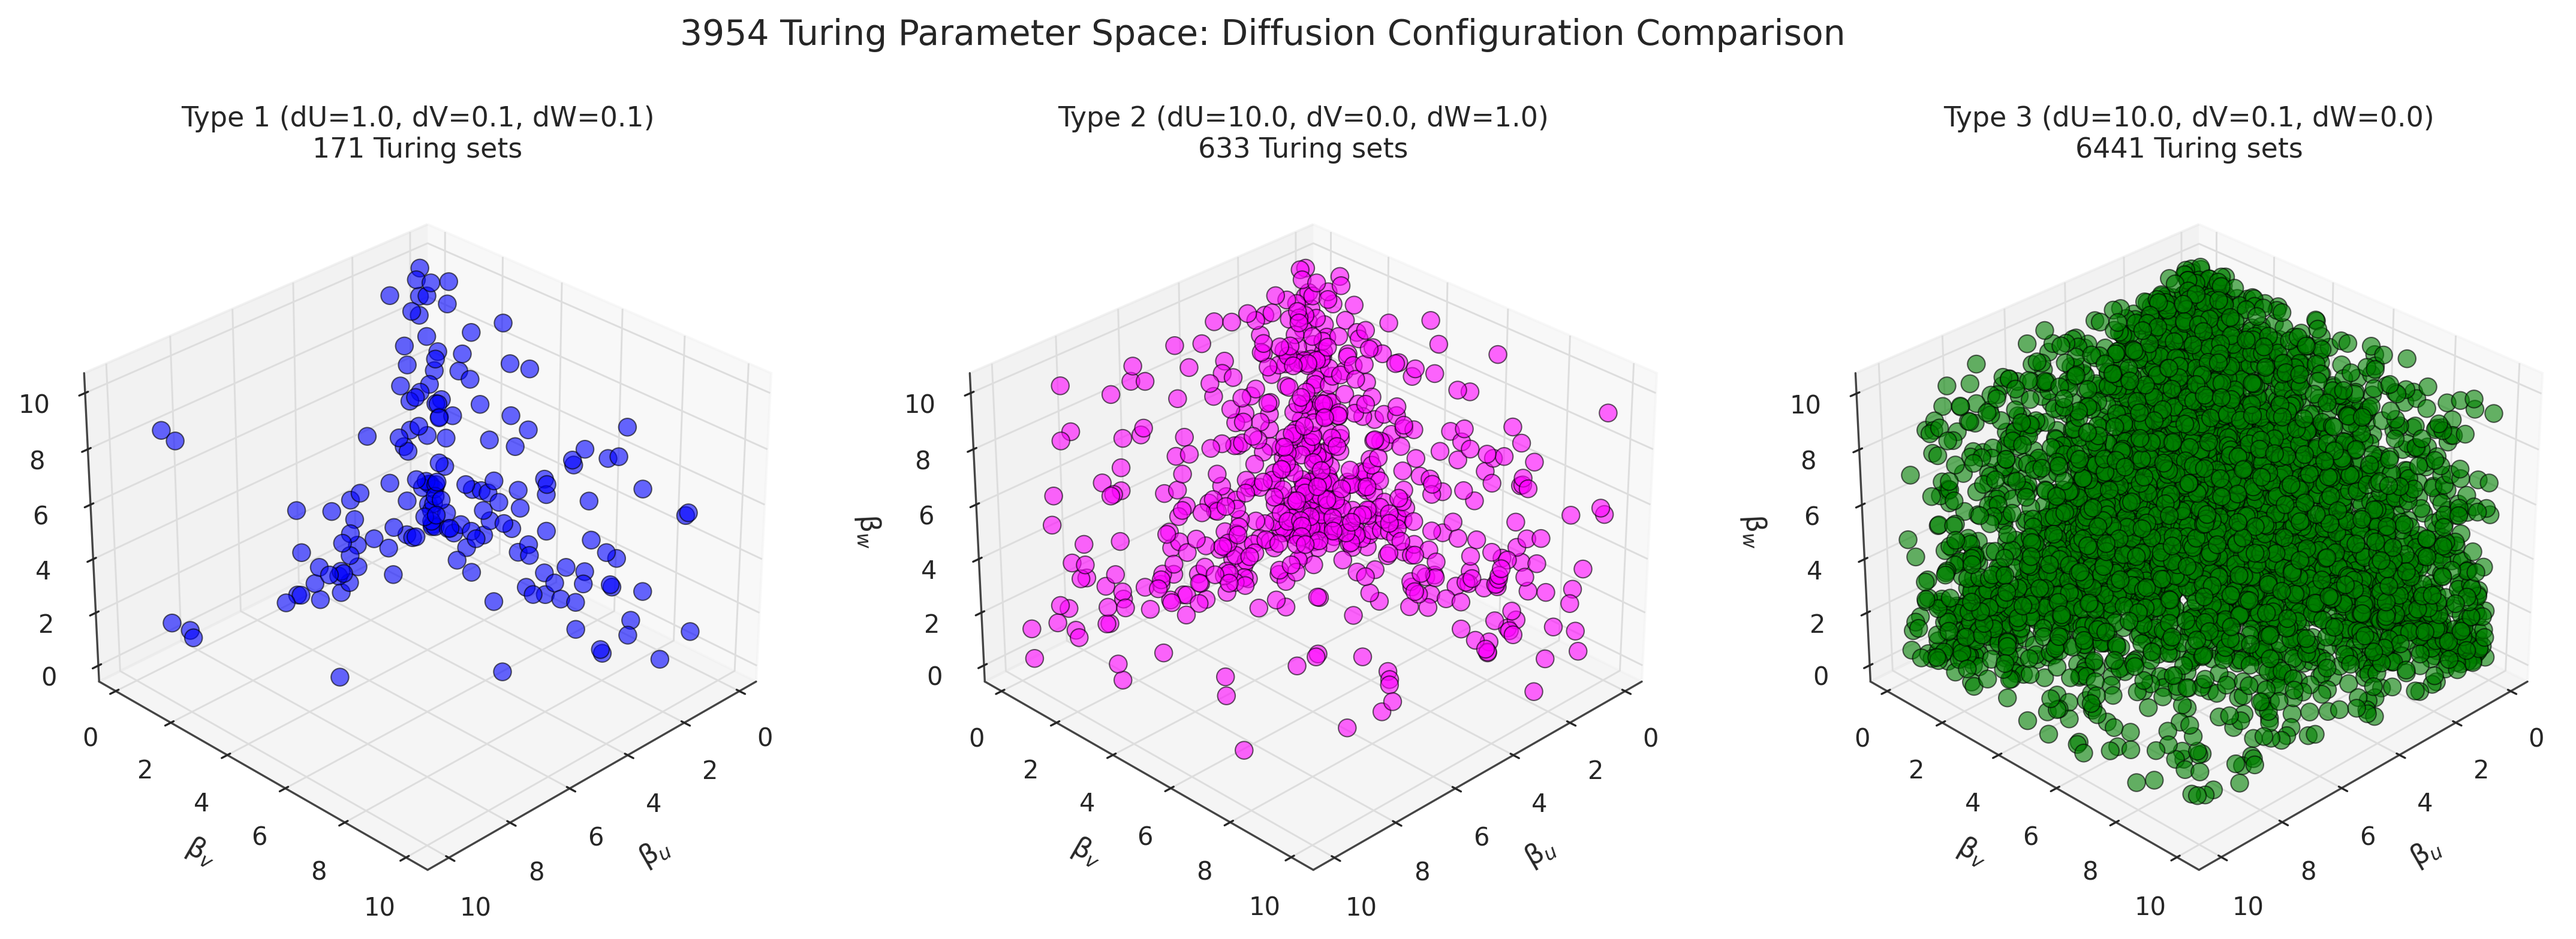
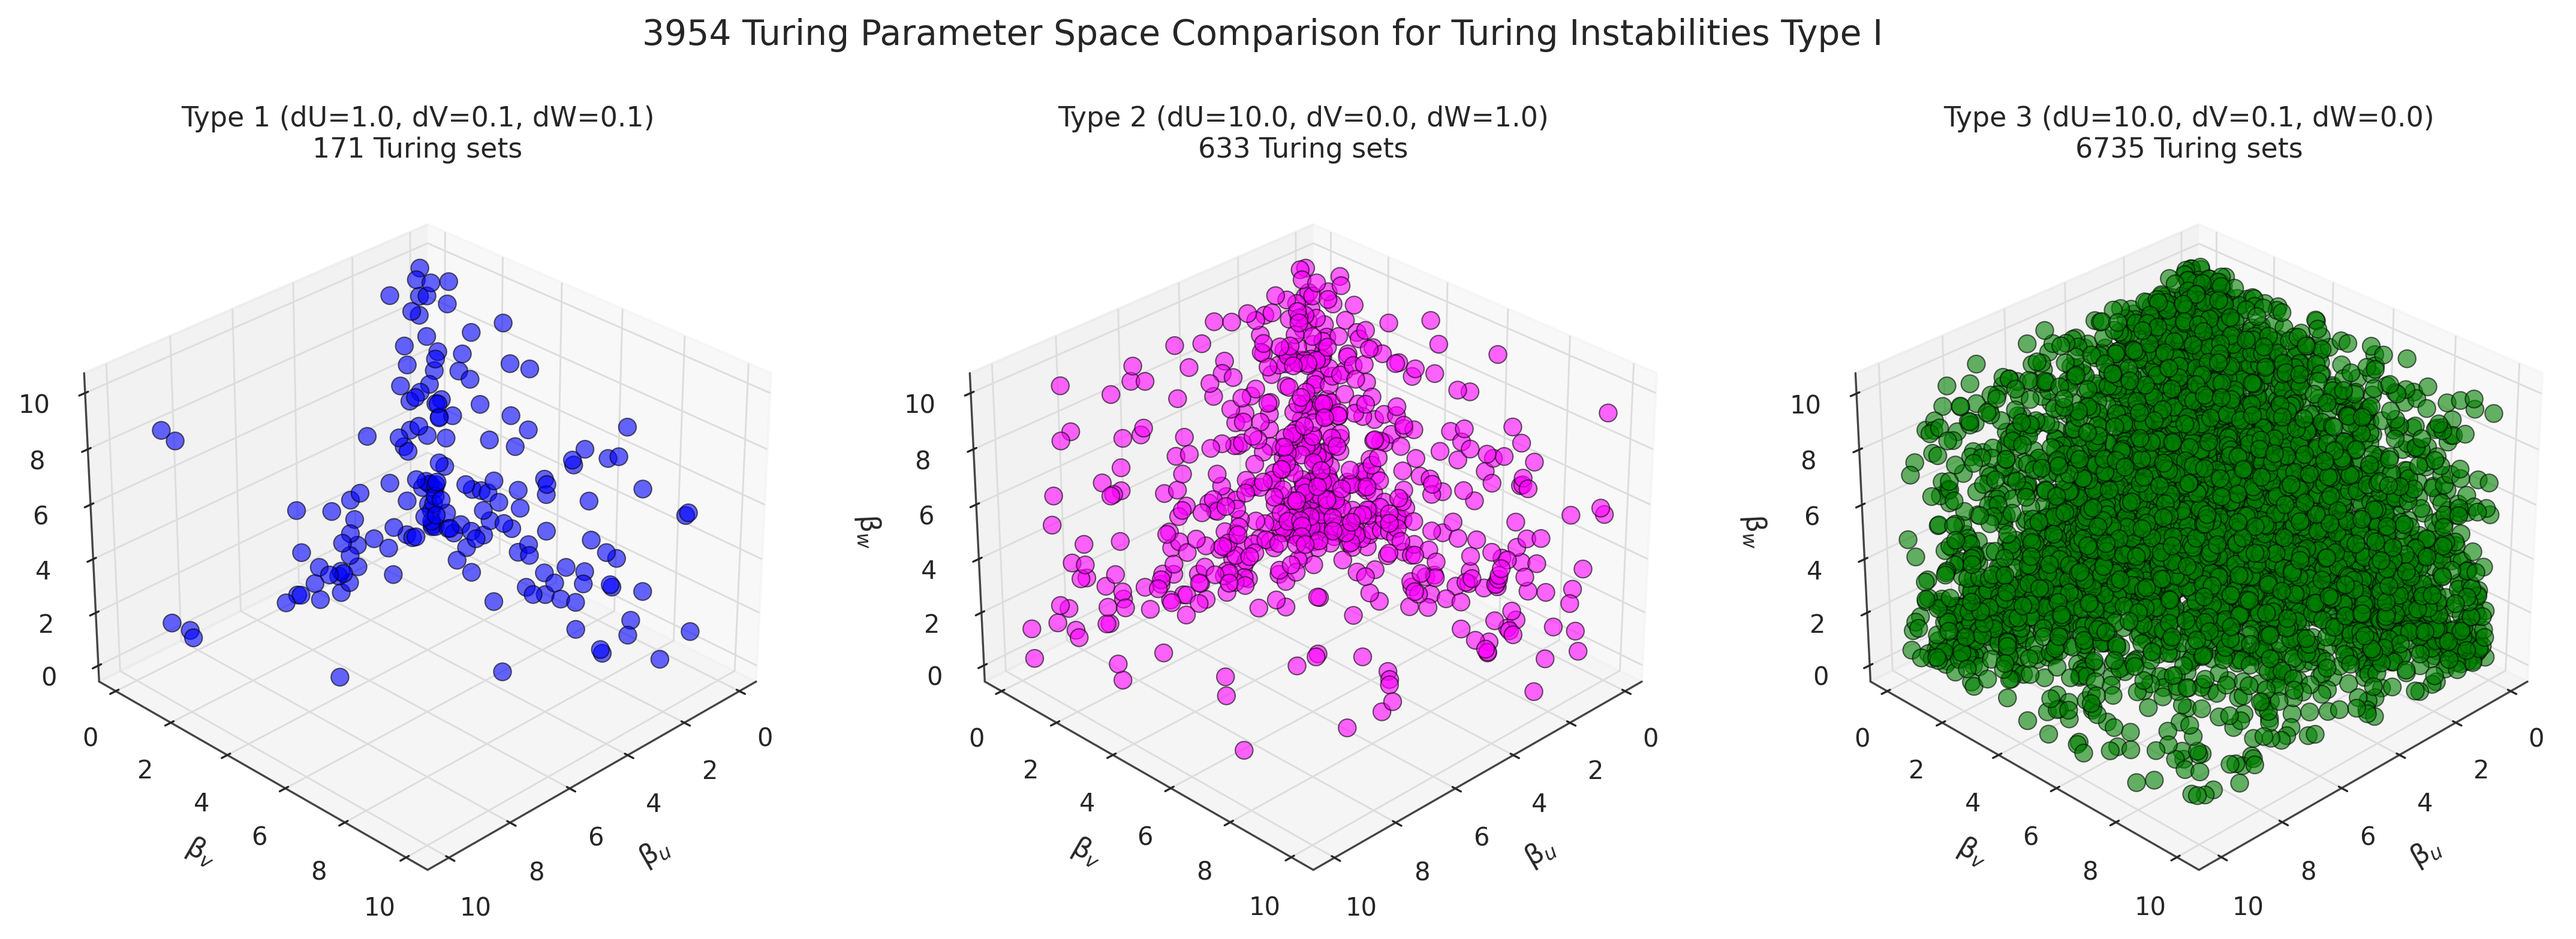
making plots prettier

diff --git a/TopologyRanking/results-compare-lhs.py b/TopologyRanking/results-compare-lhs.py
@@ -10,19 +10,20 @@ import seaborn as sns
 from mpl_toolkits.mplot3d import Axes3D
 from scipy.spatial import ConvexHull
 import matplotlib.patches as mpatches
+import matplotlib.lines as mlines
 
 # have to run this first: module load matplotlib/3.9.2-gfbf-2024a
 # have to run this first: module load SciPy-bundle/2024.05-gfbf-2024a
 # have to run this first: pip install seaborn --user
 
 CSVS = {
-    "#1754": "Topology1754/1754_FILTER_lhs_results_summary.csv",
+    "#1754": "Topology1754/1754_NEWTURINGCLASS_lhs_results_summary.csv",
     "#1823": "Topology1823/1823_PREFINAL_lhs_results_summary.csv",
     "#1838": "Topology1838/1838_PREFINAL_lhs_results_summary.csv",
-    "#3954": "Topology3954/3954_FILTER_lhs_results_summary.csv",
+    "#3954": "Topology3954/3954_NEWTURINGCLASS_lhs_results_summary.csv",
 }
 
-PARAMS_CSV = "Topology3954/3954_FILTER_lhs_results_parameters.csv"
+PARAMS_CSV = "Topology3954/3954_NEWTURINGCLASS_lhs_results_parameters.csv"
 
 # for both 3954 and 1754 i got rid of _CCD_Type1_Var1/2 bc the values were really high and kinda did not match the rest but later if it does match then we can put it back in and see if it changes the results
 
@@ -177,7 +178,7 @@ def fig1_combined_heatmaps(df):
         pivot_total,
         annot=True,
         fmt=".4f",
-        cmap="BuPu",
+        cmap="Blues",
         linewidths=0.5,
         linecolor="white",
         ax=ax1,
@@ -197,7 +198,7 @@ def fig1_combined_heatmaps(df):
         pivot_typeI,
         annot=True,
         fmt=".4f",
-        cmap="BuGn",
+        cmap="Purples",
         linewidths=0.5,
         linecolor="white",
         ax=ax2,
@@ -212,9 +213,8 @@ def fig1_combined_heatmaps(df):
         pad=10,
     )
 
-    # 6. Clean up layout and save
     fig.tight_layout()
-    save(fig, "new_combined_fig1_heatmaps")
+    save(fig, "thesis_combined_fig1_heatmaps")
 
 
 
@@ -224,76 +224,6 @@ def fig1_combined_heatmaps(df):
 
 
 ########## FIGURE 6: Stacked absolute bar – Type I vs II vs Hopf composition ##########
-
-def fig6_pattern_composition(df):
-    df = df.copy()
-
-    # UNCOMMENT to exclude Unequal diffusion configurations
-    #df = df[~df["config_name"].str.contains("Unequal")]
-
-    topos = ["#1754", "#1823", "#1838", "#3954"]
-    types = ["Type1", "Type2", "Type3"]
- 
-    # aggregate: max robustness and pattern counts per topology × turing type
-    grouped = df.groupby(["topology_id", "turing_type"]).agg(
-        rob    = ("rob_shaberi_total", "max"),
-        type_I = ("shaberi_type_I",   "sum"),
-        type_II= ("shaberi_type_II",  "sum"),
-        hopf   = ("shaberi_hopf",     "sum"),
-        turing_filter = ("filter_count", "sum"),
-    )
- 
-    fig, ax = plt.subplots(figsize=(10, 5))
- 
-    n_topos = len(topos)
-    width   = 0.16
-    gap     = 0.7
- 
-    for i, t in enumerate(types):
-        for j, topo in enumerate(topos):
-            try:
-                row = grouped.loc[(topo, t)]
-            except KeyError:
-                continue
- 
-            rob   = row["rob"]
-            #total = row["type_I"] + row["type_II"] + row["hopf"]
-            total = row["type_I"] + row["type_II"] + row["hopf"] + row["turing_filter"]
-            if total == 0 or rob == 0:
-                continue
- 
-            # split robustness proportionally by pattern type
-            f1 = row["type_I"]  / total * rob
-            f2 = row["type_II"] / total * rob
-            fh = row["hopf"]    / total * rob
-            ft = row["turing_filter"] / total * rob
- 
-            x = i * gap + (j - n_topos / 2 + 0.5) * width
- 
-            ax.bar(x, f1,      width=width, color=PATTERN_COLORS["Type I"],  edgecolor="white", linewidth=0.3)
-            ax.bar(x, f2,      width=width, color=PATTERN_COLORS["Type II"], edgecolor="white", linewidth=0.3, bottom=f1)
-            ax.bar(x, fh,      width=width, color=PATTERN_COLORS["Hopf"],    edgecolor="white", linewidth=0.3, bottom=f1+f2)
-            ax.bar(x, ft,      width=width, color=PATTERN_COLORS["Turing Filter"], edgecolor="white", linewidth=0.3, bottom=f1+f2+fh)
-
-            ax.text(x, -0.019, topo, ha="right", va="top", fontsize=7, rotation=45)
- 
-    ax.set_xticks([i * gap for i in range(len(types))])
-    ax.set_xticklabels(types, fontsize=11)
-    ax.set_ylabel("Robustness (rob_shaberi_total)", fontsize=11)
-    ax.set_title(
-        "Type I is mainly in Turing Type 1, Type II and Hopf drive Type 2/3 robustness",
-        fontsize=12, loc="left", pad=10,
-    )
-    ax.xaxis.grid(False)
- 
-    handles = [mpatches.Patch(color=c, label=l) for l, c in PATTERN_COLORS.items()]
-    #ax.legend(handles=handles, title="Pattern type", frameon=False, loc="upper center", bbox_to_anchor=(0.5, -0.18), ncol=3)
-    ax.legend(handles=handles, title="Pattern type", frameon=False, loc="center right", bbox_to_anchor=(1.15, 0.5), ncol=1)
-    
-    fig.tight_layout()
-    save(fig, "new_compare_fig6_pattern_composition")
-
-
 
 
 def fig_filter_distribution_all_configs(df):
@@ -434,15 +364,12 @@ def fig_filter_distribution_all_configs(df):
 
 
 
-
-
 def fig_all_patterns_profile_trends(df):
     df = df.copy()
 
     topos = ["#1754", "#3954"]
     types = ["Type1", "Type2", "Type3"]
-
-    # Match your exact scientific color palette from the original bar chart
+    labels = ["Type 1", "Type 2", "Type 3"]  # Clean display names for X-axis
 
     # 1. Aggregate global sums for ALL configurations combined per topology × turing type
     grouped = (
@@ -456,10 +383,10 @@ def fig_all_patterns_profile_trends(df):
         .reset_index()
     )
 
-    # 2. Set up the 2-panel layout (one for each requested topology)
-    fig, axes = plt.subplots(1, 2, figsize=(15, 6), sharey=True)
+    # 2. Set up a less high, sleeker 2-panel layout (Height reduced to 4.8)
+    fig, axes = plt.subplots(1, 2, figsize=(15, 5), sharey=True)
 
-    for ax, topo in zip(axes, topos):
+    for i, (ax, topo) in enumerate(zip(axes, topos)):
         topo_data = grouped[grouped["topology_id"] == topo]
 
         # Initialize lists to store profile coordinates for plotting
@@ -498,14 +425,14 @@ def fig_all_patterns_profile_trends(df):
         for pattern_name, color in PATTERN_COLORS.items():
             y_values = percentages[pattern_name]
 
-            # Main trendline
+            # Main sleek trendline
             ax.plot(
-                types,
+                labels,  # Use clean display labels
                 y_values,
                 color=color,
-                linewidth=3.5,
+                linewidth=3.0,
                 marker="o",
-                markersize=8,
+                markersize=7,
                 markeredgecolor="white",
                 markeredgewidth=1.5,
                 label=pattern_name,
@@ -514,52 +441,76 @@ def fig_all_patterns_profile_trends(df):
 
             # Smooth shaded area under each line to emphasize density transitions
             ax.fill_between(
-                types, y_values, 0, color=color, alpha=0.08, zorder=2
+                labels, y_values, 0, color=color, alpha=0.1, zorder=2
             )
 
         # Panel styling and visual polish
         ax.set_title(
             f"Topology {topo} Pattern Dynamics",
-            fontsize=13,
-            fontweight="bold",
-            pad=12,
+            fontsize=12,
+            #fontweight="semibold",  # Changed from bold to semibold
+            color="#222222",
+            pad=14,
         )
-        ax.set_xlabel("Turing Type", fontsize=11)
-        ax.set_ylim(-5, 105)
-        ax.grid(True, axis="both", linestyle="--", alpha=0.4, zorder=0)
+        ax.set_xlabel("Turing Type (Diego et al. 2018)", fontsize=11, color="#333333", labelpad=8)
+        ax.set_ylabel("Pattern Composition Proportion (%)", fontsize=11, color="#333333", labelpad=8)
+        
+        # Enforce all axes showing numbers/ticks clearly
+        ax.tick_params(axis="both", which="major", labelsize=10, labelleft=True, colors="#444444")
+        ax.set_ylim(-3, 103)
+        
+        # Ultra-clean faint layout grids
+        ax.grid(True, axis="both", linestyle=":", alpha=0.5, color="#cccccc", zorder=0)
+        
+        # Remove top and right borders for a premium, lightweight look
+        ax.spines["top"].set_visible(False)
+        ax.spines["right"].set_visible(False)
+        ax.spines["left"].set_color("#cccccc")
+        ax.spines["bottom"].set_color("#cccccc")
 
-    # Global chart styling
-    axes[0].set_ylabel("Pattern Composition Proportion (%)", fontsize=11)
-
+    # Global Main Header
     plt.suptitle(
-        "Composition Signature Trends: Turing Filters Emerge Exclusively at Type III Across All Configs",
-        fontsize=14,
-        y=0.98,
+        "Distribution of Turing Instability Types Across Topological Network Types", # Changes in Turing Instability Composition When Moving from Type I to Type III
+        fontsize=13,
+        y=0.96,
         fontweight="semibold",
+        color="#111111"
     )
 
-    # Unified clean legend construction placed outside on the right
-    handles = [
-        mpatches.Patch(color=c, label=l) for l, c in PATTERN_COLORS.items()
+    # 4. Construct bottom center legend using the exact line styles plotted
+    legend_handles = [
+        mlines.Line2D(
+            [], [], 
+            color=c, 
+            linewidth=3.0, 
+            marker="o", 
+            markersize=7, 
+            markeredgecolor="white", 
+            markeredgewidth=1.5, 
+            label=l
+        ) for l, c in PATTERN_COLORS.items()
     ]
-    axes[1].legend(
-        handles=handles,
-        title="Pattern Type",
+    
+    # Places legend perfectly aligned horizontally underneath both panels
+    fig.legend(
+        handles=legend_handles,
+        loc="lower center",
+        bbox_to_anchor=(0.5, 0.02),
+        ncol=4,                 # Arranges legend items in a clean single row
         frameon=False,
-        loc="center left",
-        bbox_to_anchor=(1.02, 0.5),
-        fontsize=10,
+        fontsize=10.5
     )
 
+    # Manual tight padding adjustments to preserve the bottom legend space
     fig.subplots_adjust(
-        left=0.07, right=0.85, top=0.86, bottom=0.14, wspace=0.2
+        left=0.07, 
+        right=0.95, 
+        top=0.80, 
+        bottom=0.22,  # Added padding at the bottom for the new legend layout
+        wspace=0.22
     )
-    save(fig, "all_patterns_profile_trends")
-
-
-
-
-
+    
+    save(fig, "thesis_type_profile_trends")
 
 
 
@@ -632,8 +583,8 @@ def fig_pseudo_phase_combined(df):
     sub_all = df[df["topology_id"].isin(topos)].copy()
     # Normalize globally across both topologies so colors are directly comparable
     norm = mcolors.Normalize(
-        vmin=sub_all["rob_shaberi_total"].min(),
-        vmax=sub_all["rob_shaberi_total"].max(),
+        vmin=sub_all["rob_shaberi_type_I"].min(), # was before rob_shaberi_total
+        vmax=sub_all["rob_shaberi_type_I"].max(),
     )
 
     pairs = [("dU", "dV"), ("dU", "dW"), ("dV", "dW")]
@@ -641,8 +592,10 @@ def fig_pseudo_phase_combined(df):
     # 2 rows (one per topology), 3 columns (pairs)
     # Added sharex and sharey to keep the panels aligned and clean
     fig, axes = plt.subplots(
-        2, 3, figsize=(14, 8), sharex=True, sharey=True
+        2, 3, figsize=(14, 7.5), sharex=True, sharey=True
     )
+
+    #ax.tick_params(labelbottom=True)
 
     # Loop through each row (topology) and column (variable pair)
     for row_idx, topo in enumerate(topos):
@@ -654,8 +607,8 @@ def fig_pseudo_phase_combined(df):
             sc = ax.scatter(
                 sub[xvar],
                 sub[yvar],
-                c=sub["rob_shaberi_total"],
-                cmap="BuPu",
+                c=sub["rob_shaberi_type_I"],
+                cmap="PuRd",
                 norm=norm,
                 s=250,  # Slightly smaller to prevent overcrowding in stacked views
                 edgecolors="#444444",
@@ -674,12 +627,12 @@ def fig_pseudo_phase_combined(df):
             # Only set x-labels on the bottom row to prevent overcrowding
             if row_idx == 1:
                 ax.set_xlabel(xvar, fontsize=11)
+            
+            # ax.set_xlabel(xvar, fontsize=11) to add label to the first row
 
             # Only set y-labels on the left-most column
             if col_idx == 0:
-                ax.set_ylabel(
-                    f"{yvar}\n({topo})", fontsize=11, fontweight="bold"
-                )
+                ax.set_ylabel(f"{topo}\n{yvar}", fontsize=11) # fontweight="bold"
             else:
                 ax.set_ylabel(yvar, fontsize=11)
 
@@ -687,7 +640,7 @@ def fig_pseudo_phase_combined(df):
     # Height adjusted to 0.70 to scale nicely with the taller 2-row figure
     cbar_ax = fig.add_axes([0.88, 0.12, 0.02, 0.70])
     cbar = fig.colorbar(sc, cax=cbar_ax)
-    cbar.set_label("Robustness (rob_shaberi_total)", fontsize=11)
+    cbar.set_label("Robustness (rob_shaberi_type_I)", fontsize=11)
 
     fig.suptitle(
         "Pseudo Phase Diagram Across Diffusion Rate Combinations (Topologies #3954 & #1754)",
@@ -701,12 +654,10 @@ def fig_pseudo_phase_combined(df):
     # 2. Tight manual spacing adjustments for the 2D grid matrix
     # hspace handles the vertical gap between row 1 and row 2
     fig.subplots_adjust(
-        left=0.06, right=0.84, top=0.88, bottom=0.10, wspace=0.18, hspace=0.20
+        left=0.06, right=0.84, top=0.88, bottom=0.12, wspace=0.18, hspace=0.15
     )
 
-    save(fig, "combined_pseudo_phase_diagram")
-
-
+    save(fig, "new_combined_pseudo_phase_diagram")
 
 ############
 
@@ -857,7 +808,7 @@ def fig_3d_parameter_space_comparison():
     ax3.set_title(format_title(df_c), fontsize=11)
     ax3.view_init(elev=30, azim=45) # Changed to look down from above
     
-    plt.suptitle('3954 Turing Parameter Space: Diffusion Configuration Comparison', fontsize=14, y=0.98)
+    plt.suptitle('3954 Turing Parameter Space Comparison for Turing Instabilities Type I', fontsize=14, y=0.98)
     save(fig, "new_fig_3d_turing_island_comparison")
 
 
@@ -868,13 +819,12 @@ def fig_3d_parameter_space_comparison():
 ########### RUN THE WHOLE THING ############
 
 df = load_all()
-fig1_heatmap(df)
-fig1_heatmap_typeI(df)
+# fig1_heatmap(df)
+# fig1_heatmap_typeI(df)
+# fig_pseudo_phase_39542(df)
+
 fig1_combined_heatmaps(df)
-fig6_pattern_composition(df)
 fig_filter_distribution_all_configs(df)
 fig_all_patterns_profile_trends(df)
 fig_pseudo_phase_combined(df)
-
-fig_pseudo_phase_39542(df)
 fig_3d_parameter_space_comparison()

diff --git a/BiologicalRealism/dispersion_plots.py b/BiologicalRealism/dispersion_plots.py
@@ -2,6 +2,8 @@ import numpy as np
 import pandas as pd
 import matplotlib.pyplot as plt
 from scipy.optimize import fsolve
+import matplotlib.lines as mlines
+
 
 # Import only the functions we need (no side effects from CV sweep etc.)
 from heterogenous_ring_3954 import (
